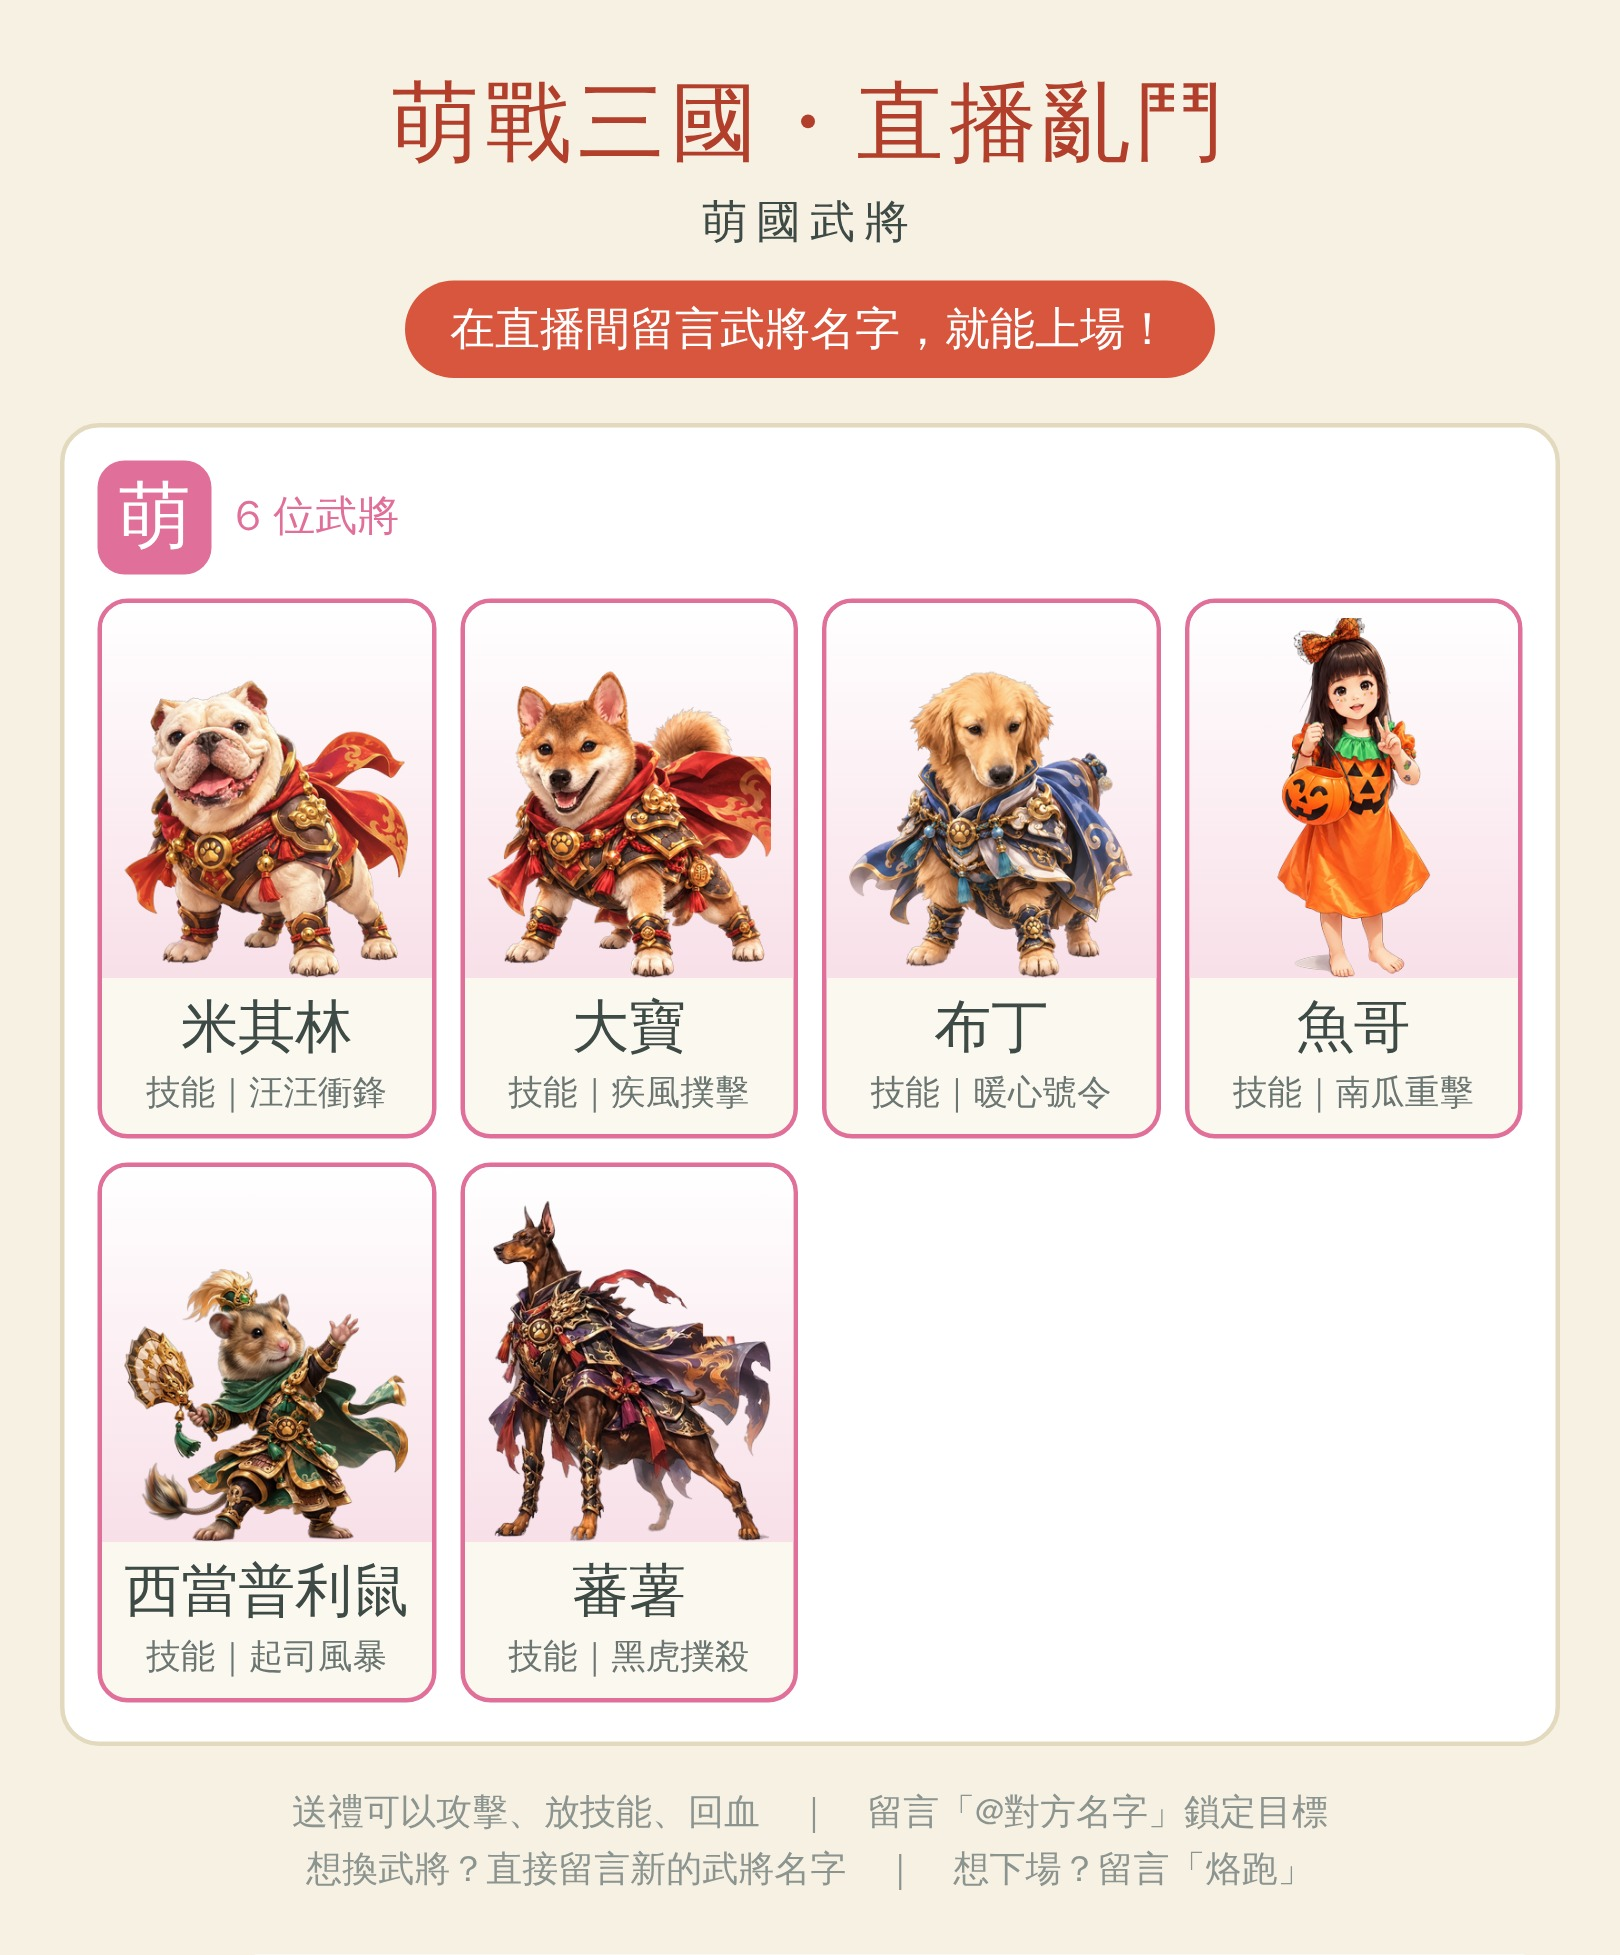
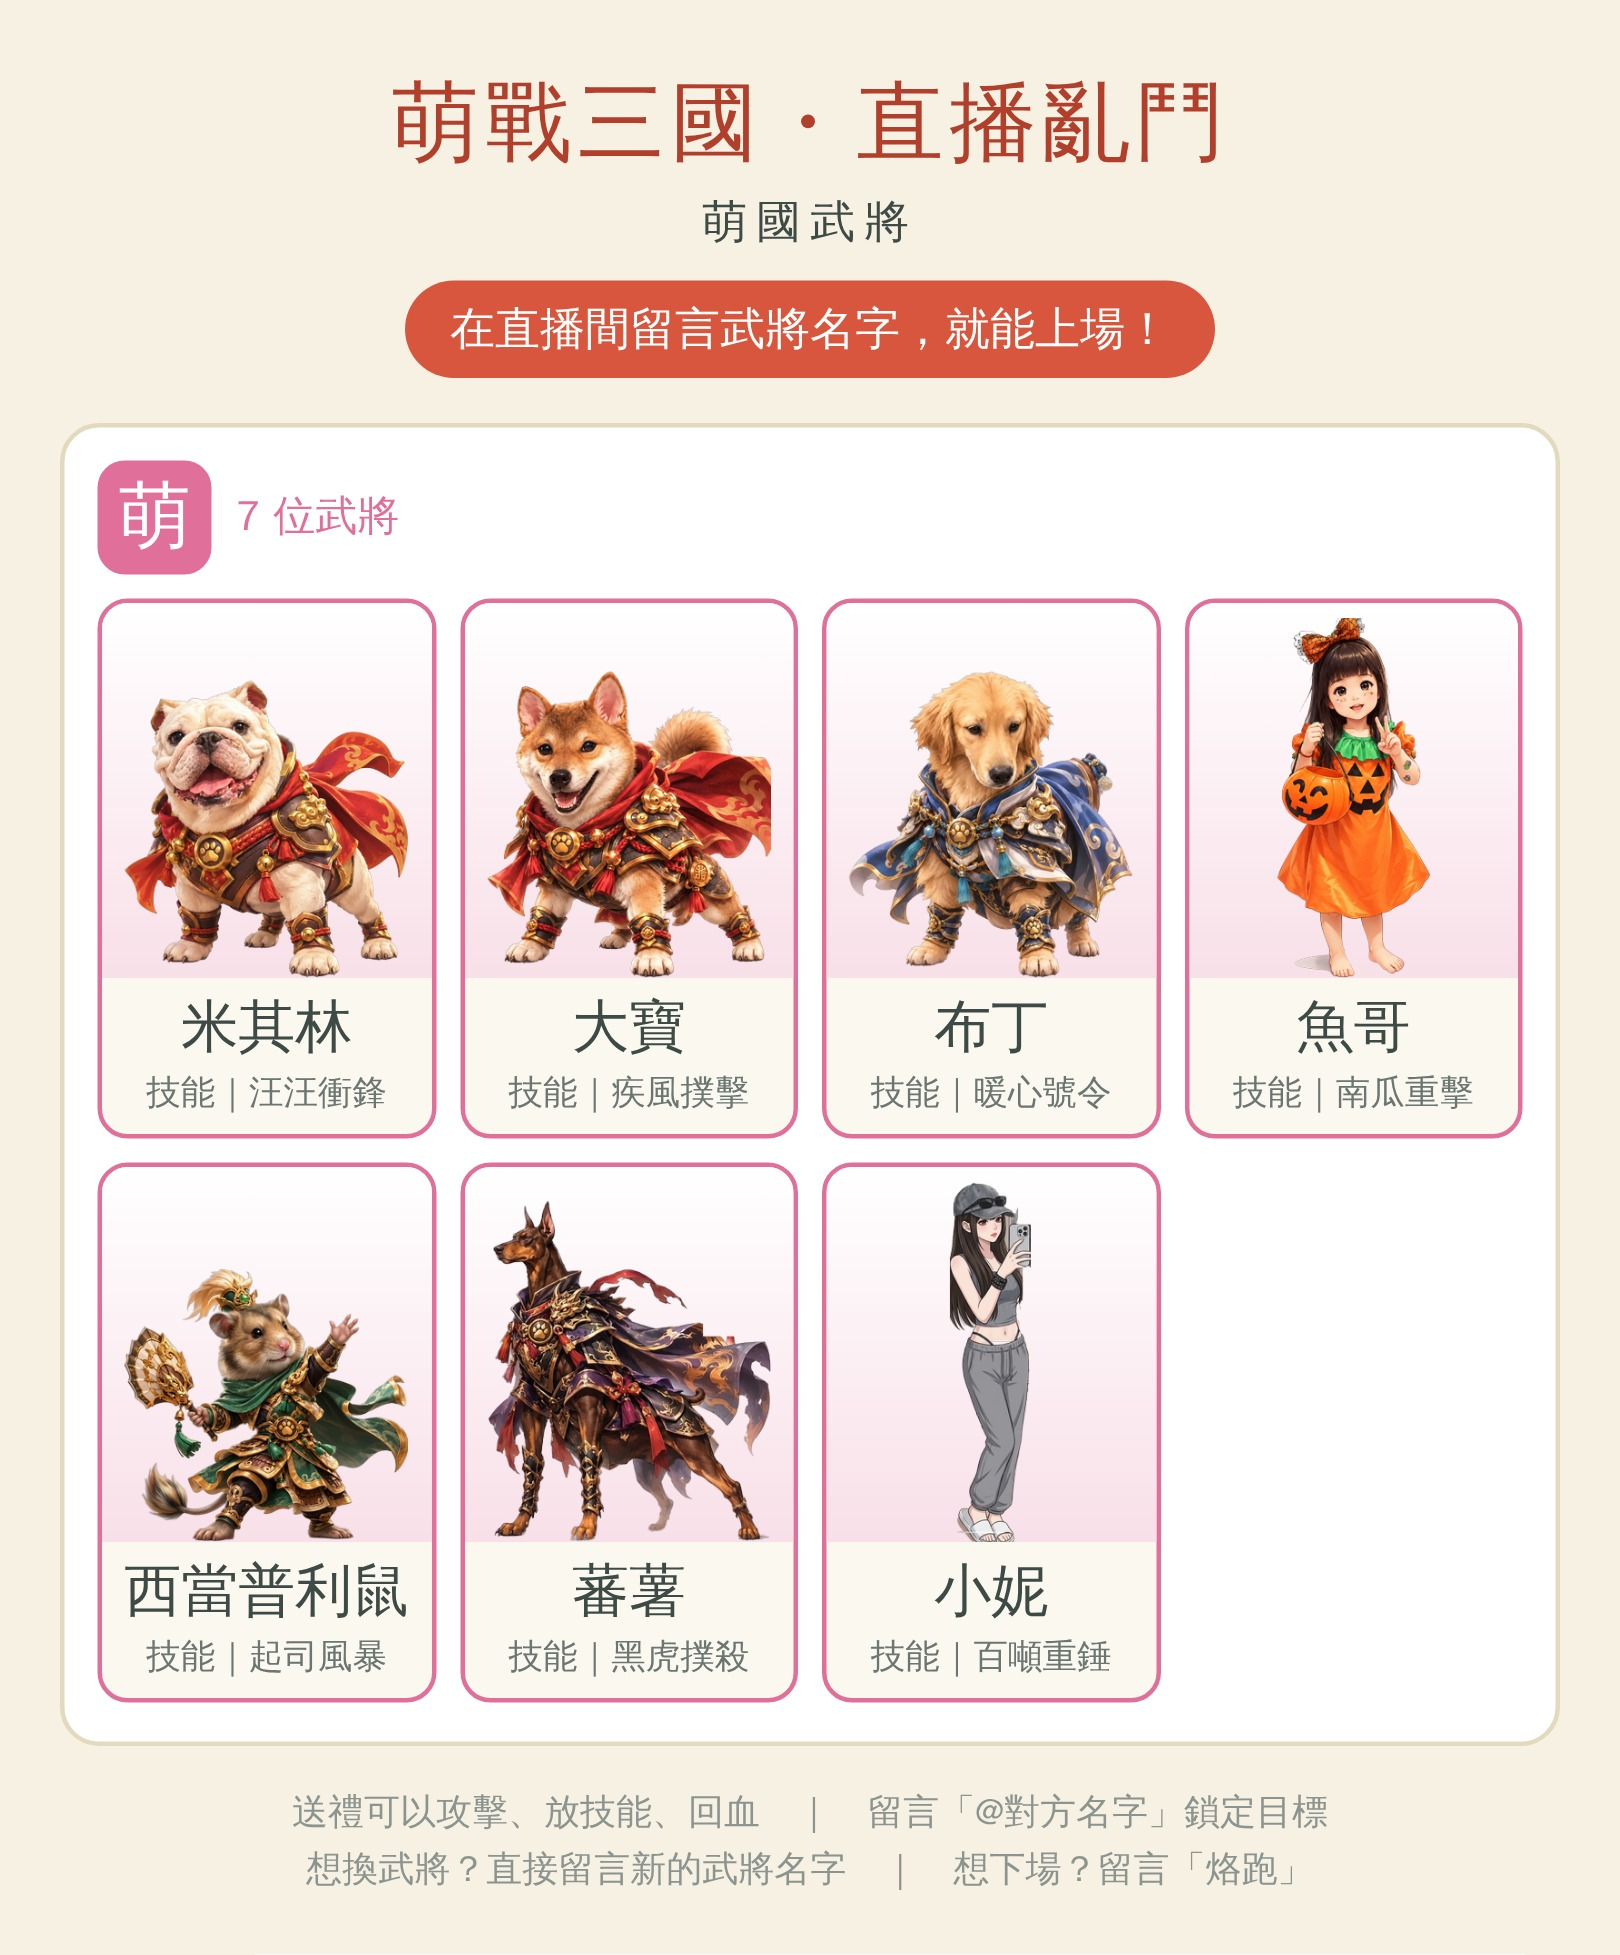
更新名冊圖加入小妮；萌國頁 7 位時縮小卡片避免下方說明被切掉
Claude-Session: https://claude.ai/code/session_01J1mi4tQsbQufTfnNbsrTar

Changed region(s): [[0.4938, 0.5928, 0.7407, 0.8737], [0.4938, 0.5928, 0.5247, 0.624]]

diff --git a/tools/make_howto.js b/tools/make_howto.js
@@ -123,7 +123,7 @@ const AVAIL_H = 1920 - 130 - 300 - 90 - 140;   // 扣掉上面標題列、陣營
 for (const key of FACTION_ORDER) {
   const f = factions[key], list = heroData.filter(h => h.faction === key);
   if (!list.length) continue;
-  const rows = Math.ceil(list.length / 3), perRow = Math.min(rows === 1 ? 520 : 430, (AVAIL_H - (rows - 1) * 14) / rows), imgH = Math.round(perRow - 118);
+  const rows = Math.ceil(list.length / 3), perRow = Math.min(rows === 1 ? 520 : 430, (AVAIL_H - (key === 'Meng' ? 360 : 0) - (rows - 1) * 14) / rows), imgH = Math.round(perRow - 118);
   slides.push(`<div class="slide" style="--c:${f.color}">${top(slides.length + 1)}<div class="body" style="justify-content:flex-start">
     <div class="fac-head"><div class="seal">${f.label}</div><div class="tt">${f.label + (key === 'Meng' ? '國' : '')}武將<small>${list.length} 位武將　留言名字就能選</small></div></div>
     <div class="grid3">${list.map(h => `<div class="hc"><div class="pic"><img src="${img(h.heroId + '.png')}" style="height:${imgH}px"></div><div class="nm">${h.displayName}</div><div class="sk">${h.skillName}</div></div>`).join('')}</div>
